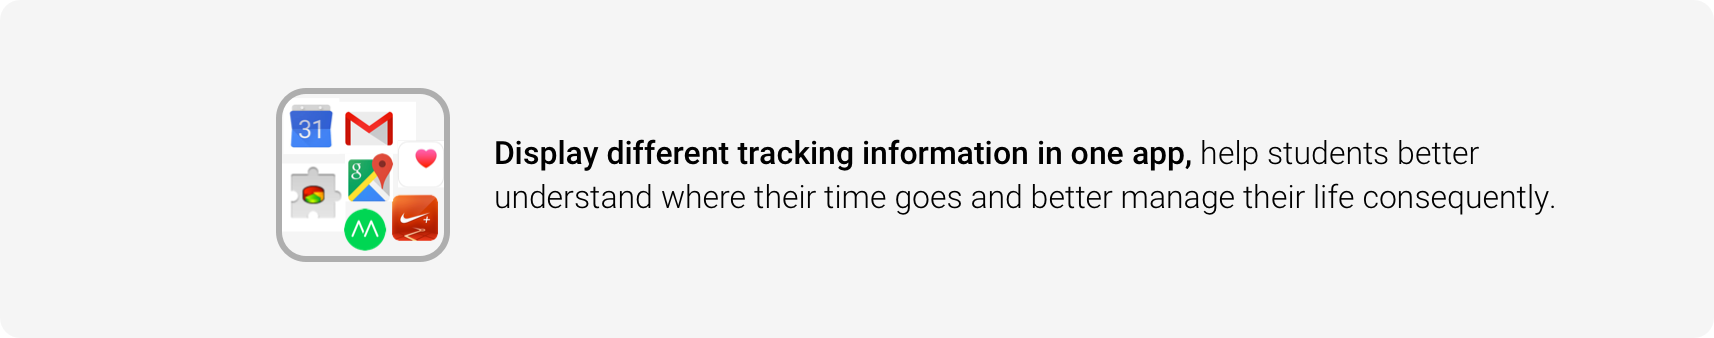
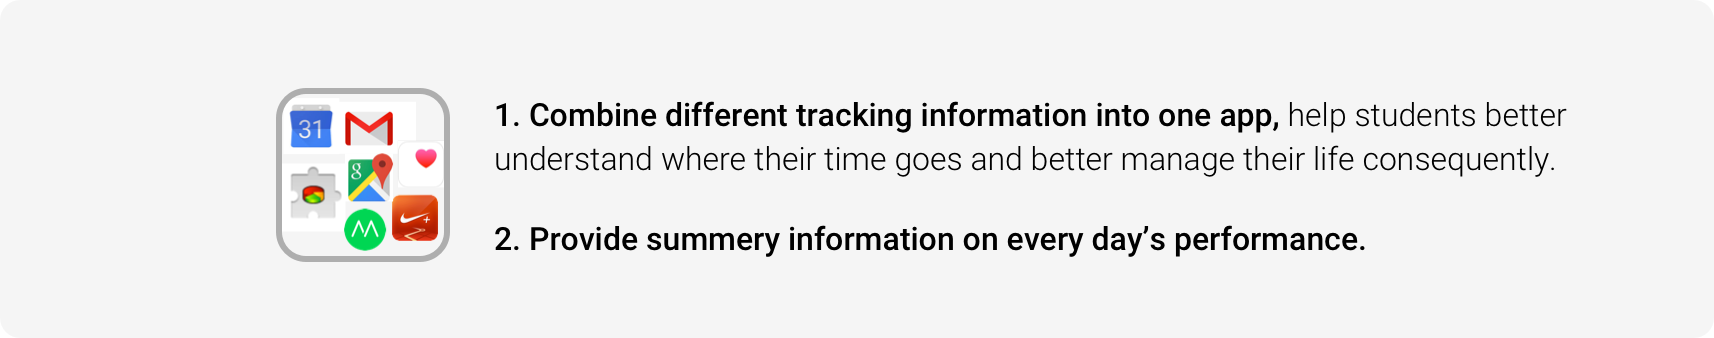
lift

diff --git a/work/lift.html b/work/lift.html
@@ -89,8 +89,10 @@
   <!--=============== Problems ====================-->
   <div class="padding-50-150 ">
     <h2 class="subtitle2">Problems</h2>
-    <p>There are a lot of international students here in the United States. <strong>Arriving in a new country, they are more easily to get stressed out due to language problem, heavy workload etc.</strong></p>
+    <p class="middle"><strong class="red">Problem</strong></p>
+    <p>Arriving in a new country, <strong>international students</strong> are more easily to <strong>get stressed out</strong> due to language problem, heavy workload etc.</p>
     <p>&nbsp;</p>
+    <p class="middle"><strong class="red">Potential Solutions</strong></p>
     <p>Stress arises as result of certain factors and then affects student's behavior and mood. So accordingly there are two potential ways to cope with it.</p>
     <p>&nbsp;</p>
     <img src="../picture/lift/problem2.png" alt="problem2" class="width100">
@@ -111,7 +113,7 @@
   <!--=============== persona ====================-->
   <div class="grey">
     <div class="padding-50-150">
-      <h2 class="subtitle3">First-Round Interview</h2>
+      <h2 class="subtitle3">First-Round Interview<br>--To decide which solution is more feasible</h2>
       <p>To see which solution is more feasible, I did the first round of interview. This interview focused on what causes stress and what these students found relaxing. It turns out that students have unique ways to deal with pressure problem. I did brainstorming afterwards and provided interviewers with 8 different ideas to choose from. Their choices are distributed which also indicates it's hard to find an universal stress-relieving method that applies to everybody.</p>
       <p>&nbsp;</p>
       <img src="../picture/lift/interview.png" alt="interview" class="width100">
@@ -126,7 +128,7 @@
     <!--=============== key findings ====================-->
     <div class="padding-50-150">
       
-      <h2 class="subtitle3">Second-Round Interview</h2>
+      <h2 class="subtitle3">Second-Round Interview<br>--To redefine the problem</h2>
       <p>This round of interview focused on why international students feel stressful by learning their everyday life. One prevalent answer is they usually feel <strong>unorganized</strong>. So I kept on exploring what applications they are using now to organize daily activities and what's the problem within the process. Besides, I paid attention to international student's posts on social media to better understand what's the feature of this unique group. </p>
       <p>&nbsp;</p>
       <p class="subtitle3 red">"I'm busy everyday but I don't feel productive, I don't know where my time goes."</p>
@@ -145,6 +147,7 @@
       <div class="c-col">
         <ul class="affinity-list">
           <li>Students gradually lose control of schedule after adding new events during daytime. </li>
+          <li>Lack work summary of each day.</li>
           <li>Two main things in their daily activities are study and exercise but it's hard to balance.</li>
           <li>Switching among various apps can be tiring.</li>
           
@@ -165,17 +168,17 @@
     <h2 class="subtitle2">My Proposal </h2>
     <img src="../picture/lift/proposal.png" alt="proposal" class="width100">
     <p>&nbsp;</p>
-    <p class="middle"><strong class="red">How to display?</strong></p>
+    <p class="middle"><strong class="red">How to display the information?</strong></p>
     <p class="middle">1. Timeline Display</p>
     <p class="middle">2. Location Display</p>
     <p>&nbsp;</p>
     <p>&nbsp;</p>
-    <p class="middle"><strong class="red">The reason why I finally chose Location Display</strong></p>
+    <p class="middle"><strong class="red">The reason why I finally chose to use Location Display</strong></p>
     <p>&nbsp;</p>
     <img src="../picture/lift/mapreason.png" alt="mapreason" class="width100">
     <p>&nbsp;</p>
     <p>&nbsp;</p>
-    <p class="middle"><strong class="red">Final design decision----to create a map-based information card</strong></p>
+    <p class="middle"><strong class="red">Final design decision----to create a map based information card</strong></p>
     <img src="../picture/lift/card.png" alt="card" class="width100">
   </div>
 
@@ -186,6 +189,7 @@
   <div class="padding-50-150 ">
     <h2 class="subtitle2">Low-fidelity Prototype </h2>
     <img src="../picture/lift/lofi.png" alt="lofi" class="width100">
+    <img src="../picture/lift/lofi2.png" alt="lofi" class="width100">
   </div>
  
 
@@ -280,14 +284,14 @@
 <!--=============== slides2 ====================-->
   <div class="padding-50-100 grey">
     <h2 class="subtitle2">Process </h2>
-    <p class="middle"><strong>(Wireframe, Guide Library, Storyboard)</strong></p>
+    <p class="middle"><strong>(Guide Library, Brainstorming, Storyboard)</strong></p>
       <div id="slider2">
         <a href="javascript://" class="control_next">></a>
         <a href="javascript://" class="control_prev"><</a>
         <ul>
-          <li id="slider2-1"></li>
-          <li id="slider2-2"></li>
-          <li id="slider2-3"></li>
+          <li id="slider3-1"></li>
+          <li id="slider3-2"></li>
+          <li id="slider3-3"></li>
         </ul>  
       </div>
 </div>

diff --git a/css/main2.css b/css/main2.css
@@ -721,6 +721,25 @@ i{
   background-repeat: no-repeat;
 }
 
+#slider3-1{
+  background-image: url("../picture/lift/brainstorming.jpeg");
+  background-size:contain;
+  background-position:center;
+  background-repeat: no-repeat;
+}
+#slider3-2{
+  background-image: url("../picture/lift/storyboard1.jpg");
+  background-size:contain;
+  background-position:center;
+  background-repeat: no-repeat;
+}
+#slider3-3{
+  background-image: url("../picture/lift/storyboard2.jpg");
+  background-size:contain;
+  background-position:center;
+  background-repeat: no-repeat;
+}
+
 #slider2 a.control_prev, a.control_next {
   position: absolute;
   top: 40%;
